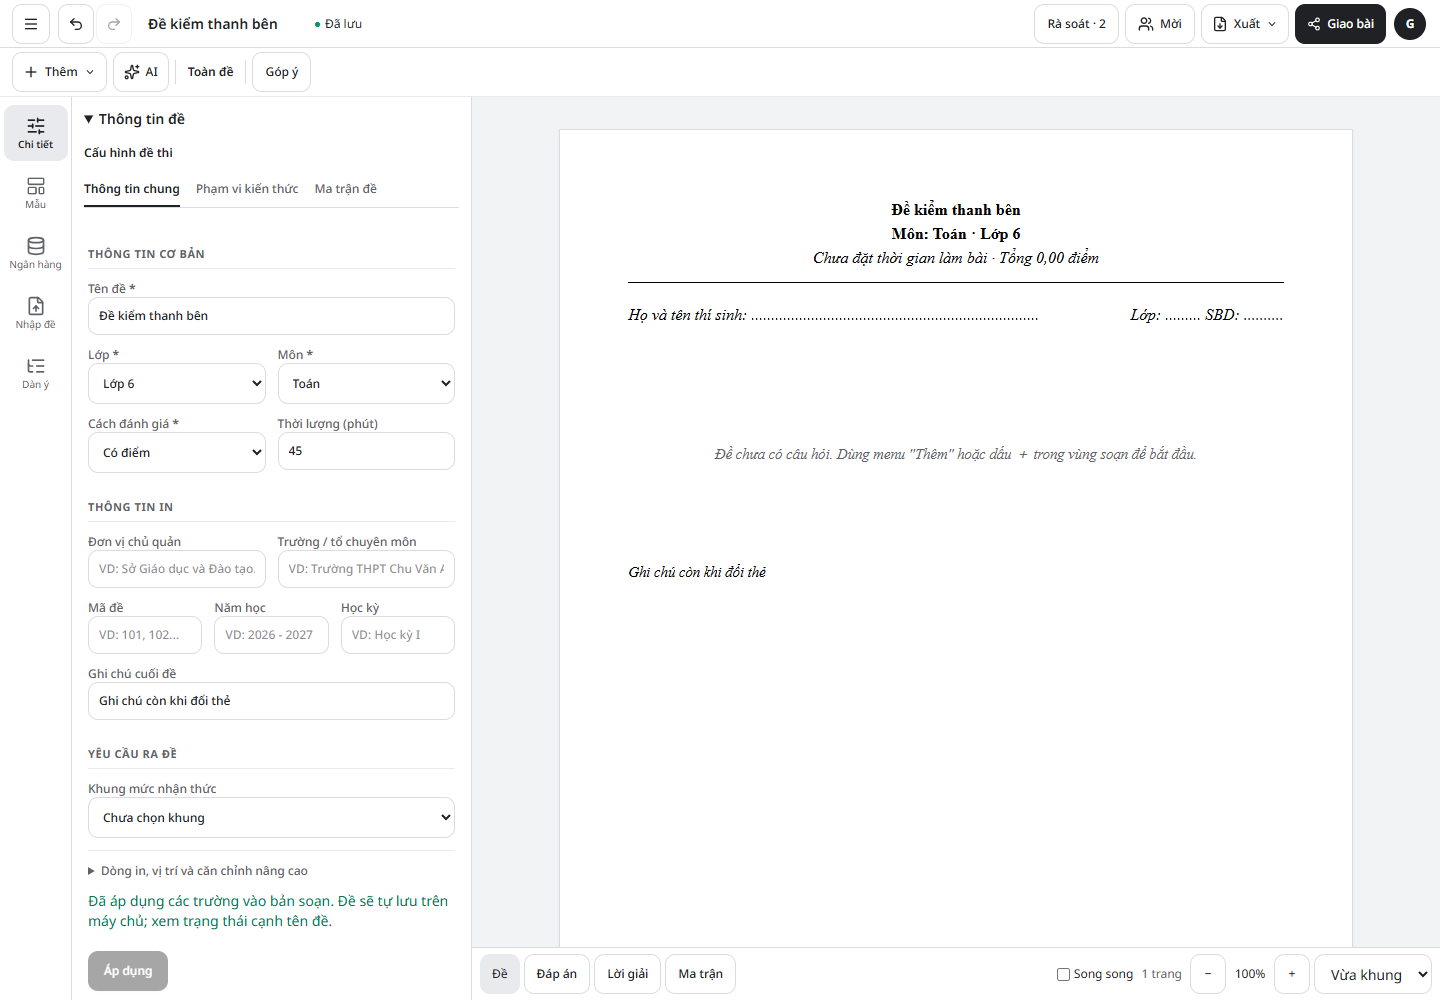
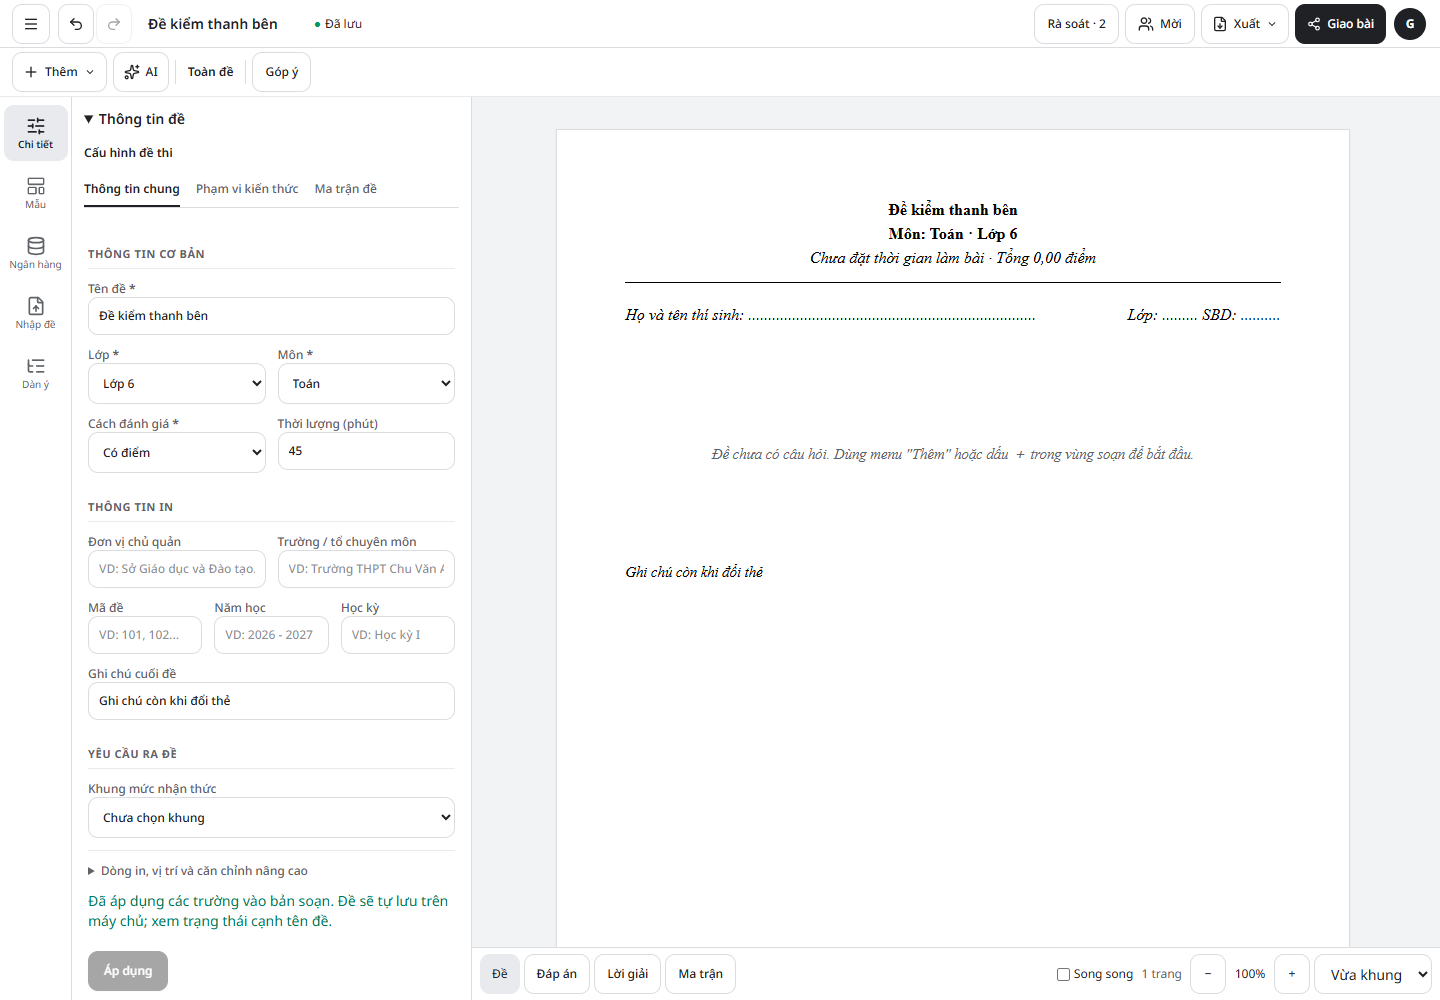
wip

diff --git a/src/components/ExamWorkspace.tsx b/src/components/ExamWorkspace.tsx
@@ -262,6 +262,7 @@ const ExamWorkspaceContent: React.FC<ExamWorkspaceProps> = ({ currentUser, examI
 
   // ----- Selection: a list of codes (see canvas-objects); the last one is the one the panels talk about.
   const [picked, setPicked] = useState<string[]>([EXAM_CODE]);
+  const [focusDetail, setFocusDetail] = useState(false);
   const rawCode = picked.at(-1) ?? EXAM_CODE;
   const selectedCode = objectExists(exam, rawCode) ? rawCode : EXAM_CODE;
   const pickedQuestionIds = useMemo(
@@ -336,8 +337,9 @@ const ExamWorkspaceContent: React.FC<ExamWorkspaceProps> = ({ currentUser, examI
       say('Đã bỏ câu trống. Bấm Hoàn tác nếu cần lấy lại.');
     }
   };
-  const select = (code: string, how: 'replace' | 'toggle' | 'range' = 'replace') => {
+  const select = (code: string, how: 'replace' | 'toggle' | 'range' = 'replace', focus = false) => {
     removeBlankIfLeft(code);
+    setFocusDetail(focus);
     const kind = parseCode(code).kind;
     if (how === 'toggle' && kind === 'question') {
       setPicked((previous) => {
@@ -957,6 +959,7 @@ const ExamWorkspaceContent: React.FC<ExamWorkspaceProps> = ({ currentUser, examI
     onStructure: applyStructure,
     onPreview: updateHeaderPreview,
     addItems: addItemsFor,
+    focus: focusDetail,
     onManualSave: (submission: Parameters<typeof applyQuestionManualSubmission>[1]) =>
       setExam((previous) => applyQuestionManualSubmission(previous, submission, currentUser.id)),
   };
@@ -1326,7 +1329,7 @@ const ExamWorkspaceContent: React.FC<ExamWorkspaceProps> = ({ currentUser, examI
           <A4Preview
             exam={previewExam}
             selectedCode={canEdit ? sheetCode : undefined}
-            onSelectCode={(code) => select(code)}
+            onSelectCode={(code, how) => select(code, how ?? 'replace', true)}
             insertItems={canEdit ? addItemsFor : undefined}
             issueCounts={issueCounts}
             commentCounts={commentCounts}

diff --git a/src/components/A4Preview.tsx b/src/components/A4Preview.tsx
@@ -72,7 +72,7 @@ interface A4PreviewProps {
   barExtra?: React.ReactNode;
   /** The selected object (a code from canvas-objects) and what to do when something on the sheet is clicked. Without this the sheet is read-only. */
   selectedCode?: string;
-  onSelectCode?: (code: string) => void;
+  onSelectCode?: (code: string, how?: 'replace' | 'toggle' | 'range') => void;
   /** The "Thêm" menu for a "+" point on the sheet. */
   insertItems?: (code: string) => MenuItem[];
   /** Questions with review findings (left margin mark) and with open comments (right margin bubble). */
@@ -364,7 +364,10 @@ export const A4Preview: React.FC<A4PreviewProps> = ({
                 // Dragging over words to copy them is not a click on an object.
                 if (window.getSelection()?.toString()) return;
                 const hit = (event.target as HTMLElement).closest<HTMLElement>('[data-object]');
-                onSelectCode(hit?.dataset.object ?? 'exam');
+                onSelectCode(
+                  hit?.dataset.object ?? 'exam',
+                  event.shiftKey ? 'range' : event.ctrlKey || event.metaKey ? 'toggle' : 'replace',
+                );
               }
             : undefined
         }

diff --git a/src/components/editor/EditorDetail.tsx b/src/components/editor/EditorDetail.tsx
@@ -33,6 +33,8 @@ type Props = {
   onPreview: (submission: HeaderSubmission | null) => void;
   onManualSave: (submission: QuestionManualSubmission) => void;
   addItems: (code: string) => MenuItem[];
+  /** Put the cursor in the field that belongs to the selection (a click on the sheet), not for the arrow keys. */
+  focus?: boolean;
   message?: string;
 };
 
@@ -286,7 +288,7 @@ export function EditorDetail(p: Props) {
             key={`${p.ownerId}:${p.sessionScope}:${question.id}`}
             autoApply
             readOnly={!p.canEdit || !!question.locked}
-            focusField={fieldFor(p.code)}
+            focusField={p.focus ? fieldFor(p.code) : undefined}
             ownerId={p.ownerId}
             documentId={p.exam.id}
             sourceStamp={p.sourceStamp}

diff --git a/tests_pilot/editor.test.ts b/tests_pilot/editor.test.ts
@@ -162,6 +162,7 @@ test('editor P0-P8: settings recovery review exports and narrow screens', { time
         if(label==='Word – đáp án/barem') assert.ok(xml.includes('ĐÁP ÁN') || xml.includes('Đáp án'));
         if(label==='Word – ma trận') { assert.ok(xml.includes('BẢNG PHÂN BỔ CÂU HỎI')); assert.ok(xml.includes('<w:tbl')); assert.ok(!xml.includes('QUESTION_ONE')); }
       }
+      await page.getByRole('button', { name: 'Đóng Rà soát', exact: true }).click();
     });
     await t.test('parts and shared content are selected on the sheet or in the outline; questions move between them', async () => {
       const loaded=await api('/api/exams/'+examId);
